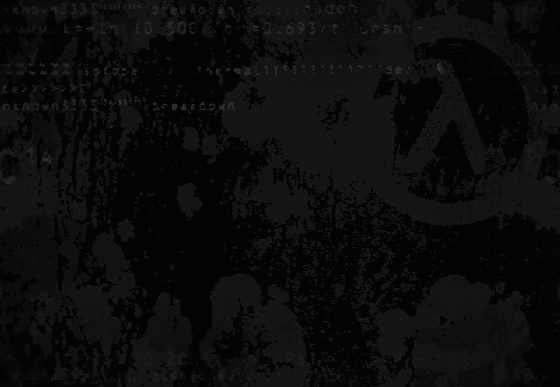
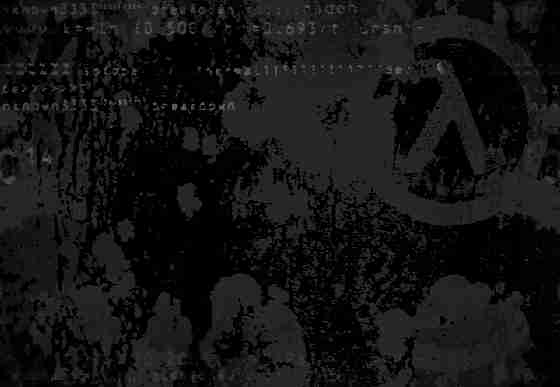
Site update

diff --git a/index.html b/index.html
@@ -1,4 +1,4 @@
-<!DOCTYPE html>
+<!DOCTYPE HTML PUBLIC "-//W3C//DTD HTML 4.01 Frameset//EN" "http://www.w3.org/TR/html4/frameset.dtd">
 <html>
     <head>
         <title>HALF-LIFE 9</title>
@@ -6,12 +6,8 @@
         <link rel="icon" type="image/x-icon" href="favicon.ico">
         <!-- PLANNED URL: hl9.thomasluigi07.com -->
     </head>
-    <body>
-        <img class="logo" src="img/hl9logo.png">
-        <p>Site under construction!</p>
-        <p>Download now on <a href="https://thomasluigi07.itch.io/hl9">itch.io</a> and <a href="https://gamejolt.com/games/hl9/855563">Gamejolt</a>!</p>
-        <iframe frameborder="0" src="https://itch.io/embed/2380038?bg_color=e85600&amp;fg_color=ffffff&amp;link_color=ffffff&amp;border_color=000000" width="552" height="167"><a href="https://thomasluigi07.itch.io/hl9">HALF-LIFE 9 by Thomasluigi07</a></iframe>
-        <br />
-        <p><a href="../index.html">Click here</a> to go back to my website.</p>
-    </body>
+   <frameset cols="125,*" frameborder="0" border="0" framespacing="0">
+        <frame src="frames/sidebar.html" name="sidebar" marginwidth="0" marginheight="0" scrolling="no" data-ruffle-polyfilled="">
+        <frame src="frames/home.html" name="main" marginwidth="0" marginheight="0" scrolling="auto" data-ruffle-polyfilled="">
+    </frameset>
 </html>

diff --git a/frames/home.html b/frames/home.html
@@ -1,0 +1,14 @@
+<!DOCTYPE HTML>
+<html>
+    <head>
+        <link rel="stylesheet" href="../css/style.css">
+    </head>
+    <body>
+        <img class="logo" src="../img/hl9logo.png">
+        <p>Site under construction!</p>
+        <p>Download now on <a target="_parent" href="https://thomasluigi07.itch.io/hl9">itch.io</a> and <a target="_parent" href="https://gamejolt.com/games/hl9/855563">Gamejolt</a>!</p>
+        <iframe frameborder="0" src="https://itch.io/embed/2380038?bg_color=e85600&amp;fg_color=ffffff&amp;link_color=ffffff&amp;border_color=000000" width="552" height="167"><a href="https://thomasluigi07.itch.io/hl9">HALF-LIFE 9 by Thomasluigi07</a></iframe>
+        <br />
+        <p><a href="../index.html">Click here</a> to go back to my website.</p>
+    </body>
+</html>

diff --git a/frames/sidebar.html b/frames/sidebar.html
@@ -1,0 +1,20 @@
+<!DOCTYPE HTML>
+<html>
+    <head>
+        <link rel="stylesheet" href="../css/sidebar.css">
+    </head>
+    <body>
+        <table height="100%" width="100" cellspacing="0" cellpadding="0" border="0">
+            <tbody>
+                <tr align="right" valign="middle">
+                    <td width="100px" height="9%">
+                        <a href="home.html" target="main">home</a><br clear="all">
+                    </td>
+                    <td width="100px" height="9%">
+                        <a href="update.html" target="main">update log</a><br clear="all">
+                    </td>
+                </tr>
+            </tbody>
+        </table>
+    </body>
+</html>

diff --git a/css/sidebar.css b/css/sidebar.css
@@ -4,7 +4,7 @@
 }
 
 html {
-    background: url('../img/background.jpg');
+    background: url('../img/navback.jpg');
 }
 
 * {
@@ -15,6 +15,11 @@ html {
 
 a {
     color: #ffcc00;
+    text-decoration: none;
+}
+
+td {
+    text-align: right;
 }
 
 .logo {

diff --git a/frames/update.html b/frames/update.html
@@ -1,0 +1,10 @@
+<!DOCTYPE HTML>
+<html>
+    <head>
+        <link rel="stylesheet" href="../css/style.css">
+    </head>
+    <body>
+        <h1>Update history</h1>
+        <p>v0.0.1</p>
+    </body>
+</html>
